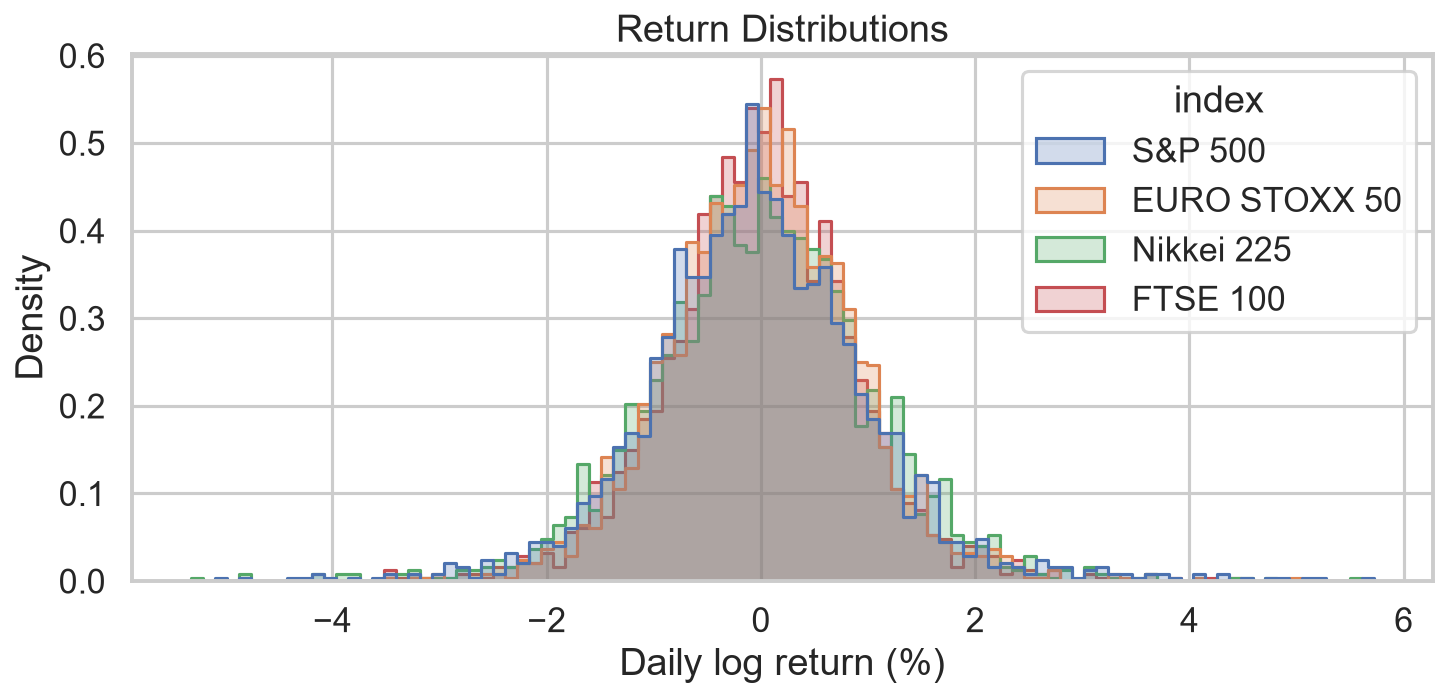
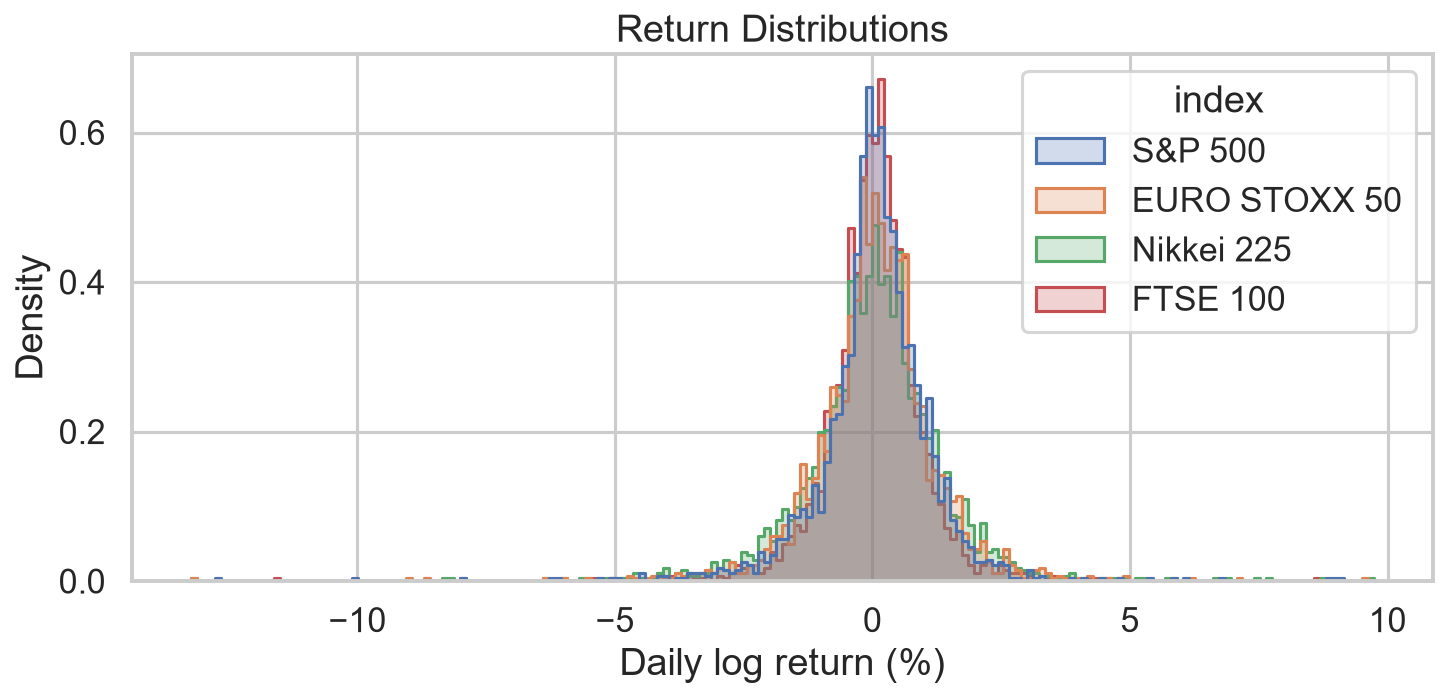
Use live index data via akshare fallback and refresh results.
Yahoo Finance is blocked/rate-limited here; load Eastmoney prices when needed and regenerate figures/tables on real 2015–2026 data.

diff --git a/src/data_loader.py b/src/data_loader.py
@@ -14,6 +14,41 @@ try:
 except ImportError:  # pragma: no cover
     yf = None
 
+# Eastmoney symbols via akshare (works when Yahoo is blocked / rate-limited)
+AKSHARE_SYMBOLS: dict[str, str] = {
+    "S&P 500": "标普500",
+    "EURO STOXX 50": "欧洲斯托克50",
+    "Nikkei 225": "日经225",
+    "FTSE 100": "英国富时100",
+}
+
+
+def _download_akshare(tickers: dict[str, str], start: str) -> pd.DataFrame:
+    """Fetch daily closes via akshare ``index_global_hist_em``."""
+    try:
+        import akshare as ak
+    except ImportError as exc:  # pragma: no cover
+        raise ImportError("akshare is required for the non-Yahoo fallback") from exc
+
+    frames: dict[str, pd.Series] = {}
+    for name in tickers:
+        em_sym = AKSHARE_SYMBOLS.get(name)
+        if em_sym is None:
+            continue
+        df = ak.index_global_hist_em(symbol=em_sym)
+        cols = df.columns.tolist()
+        date_col, close_col = cols[0], cols[4]  # 日期, 最新价/收盘
+        s = df[[date_col, close_col]].copy()
+        s[date_col] = pd.to_datetime(s[date_col])
+        s = s.set_index(date_col)[close_col].astype(float).sort_index()
+        s = s[~s.index.duplicated(keep="last")]
+        s.name = name
+        frames[name] = s
+    if not frames:
+        return pd.DataFrame()
+    prices = pd.DataFrame(frames).sort_index()
+    return prices.loc[start:]
+
 
 def _extract_close(raw: pd.DataFrame, symbols: list[str]) -> pd.DataFrame:
     if raw is None or raw.empty:
@@ -136,7 +171,6 @@ def download_prices(
     if series_list:
         closes = pd.concat(series_list, axis=1).sort_index()
         closes = closes.dropna(how="all")
-        # Keep columns that have enough history
         keep = [c for c in closes.columns if closes[c].notna().sum() > 200]
         closes = closes[keep]
         if len(keep) >= 2:
@@ -145,25 +179,41 @@ def download_prices(
                 closes.to_csv(cache_path)
             return closes
 
+    # Fallback 1: akshare / Eastmoney (often reachable when Yahoo is blocked)
+    try:
+        closes = _download_akshare(tickers, start=start)
+        keep = [c for c in closes.columns if closes[c].notna().sum() > 200]
+        closes = closes[keep]
+        if len(keep) >= 2:
+            warnings.warn(
+                "Yahoo Finance unavailable; loaded live prices via akshare (Eastmoney).",
+                UserWarning,
+                stacklevel=2,
+            )
+            if cache_path is not None:
+                cache_path.parent.mkdir(parents=True, exist_ok=True)
+                closes.to_csv(cache_path)
+            return closes
+    except Exception as exc:  # noqa: BLE001
+        warnings.warn(f"akshare fallback failed: {exc}", UserWarning, stacklevel=2)
+
     if not allow_synthetic:
         raise RuntimeError(
-            "Yahoo Finance returned no usable price data. "
+            "No usable price data from Yahoo or akshare. "
             "Check network access / rate limits, or delete a stale cache and retry."
         )
 
     warnings.warn(
-        "Yahoo Finance unavailable or rate-limited; using synthetic GARCH index panel. "
+        "Live data unavailable; using synthetic GARCH index panel. "
         "Delete the cache CSV and re-run later for live data.",
         UserWarning,
         stacklevel=2,
     )
     closes = make_synthetic_index_prices(list(tickers.keys()), start=start)
     if cache_path is not None:
-        # Cache under a distinct name so live data can replace it later
         synth_path = cache_path.with_name(cache_path.stem + "_synthetic.csv")
         synth_path.parent.mkdir(parents=True, exist_ok=True)
         closes.to_csv(synth_path)
-        # Also write main cache so subsequent runs are instant offline
         closes.to_csv(cache_path)
     return closes
 

diff --git a/README.md b/README.md
@@ -47,7 +47,7 @@ python main.py
 
 First run downloads daily adjusted closes via `yfinance` and caches them under `data/global_indices_adj_close.csv`.
 
-If Yahoo Finance rate-limits your IP, the loader automatically falls back to a **synthetic GARCH-like index panel** so the full research workflow still runs offline. Delete the cache and re-run later for live data:
+Data source order: **Yahoo Finance** → **akshare (Eastmoney)** → synthetic GARCH panel (offline demo). Delete the cache and re-run to refresh live data:
 
 ```bash
 del data\global_indices_adj_close.csv
